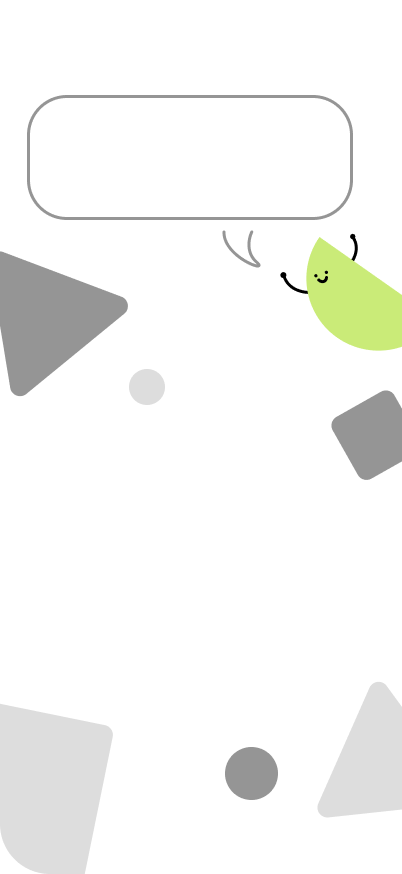
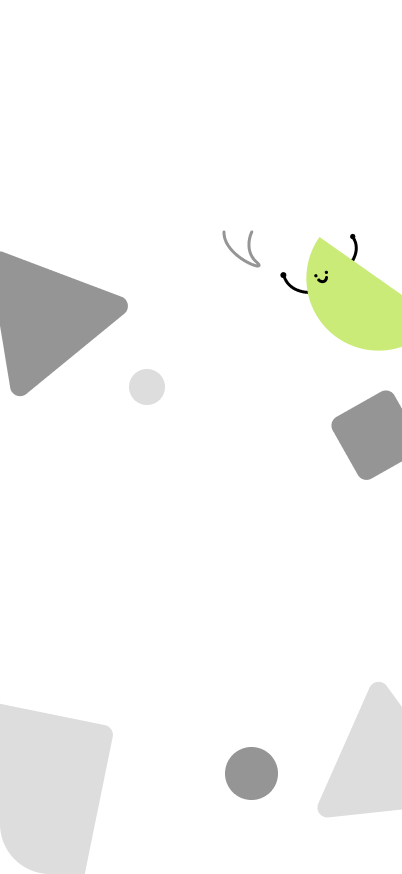
ライトモード強制、レスポンシブデザインに近づける

diff --git a/nebostop/start.swift b/nebostop/start.swift
@@ -13,37 +13,49 @@ struct start: View {
     @Binding var selectionDate : Date
     let totalSteps = 3
     var body: some View {
-        NavigationStack{
-            ZStack{
-                Image("start")
-                    .resizable()
-                    .scaledToFill()
-                    .ignoresSafeArea()
-                VStack(spacing:30){
+        GeometryReader { geometry in
+            NavigationStack{
+                ZStack{
+                    Image("start")
+                        .resizable()
+                        .scaledToFill()
+                        .ignoresSafeArea()
                     
-                    
-                    Text("明日は何時に起きるのか\n宣言しよう！")
-                        .font(.title2 .bold())
-                        .multilineTextAlignment(.center)
-                        .lineSpacing(20)
-                        .frame(maxWidth: 300, alignment: .center)
-                    
-                    Button{
-                        currentscreen = .whenyouwakeup
-                    } label: {
-                        Text("宣言する！")
-                            .font(.title2)
-                            .foregroundColor(.white)
-                            .padding(.vertical, 15)
-                            .padding(.horizontal, 30)
-                            .background(Color(red: 253/255, green: 149/255, blue: 96/255))
-                            .cornerRadius(30)
+                    VStack(spacing:30){
+                        VStack(spacing: 30){
+                            Text("明日は何時に起きるのか\n宣言しよう！")
+                                .font(.title2 .bold())
+                                .multilineTextAlignment(.center)
+                                .lineSpacing(8)
+                                .frame(maxWidth: geometry.size.width * 0.7, alignment: .center)
+                            Button{
+                                currentscreen = .whenyouwakeup
+                            } label: {
+                                Text("宣言する！")
+                                    .font(.title2)
+                                    .foregroundColor(.white)
+                                    .padding(.vertical, 15)
+                                    .padding(.horizontal, 30)
+                                    .background(Color(red: 253/255, green: 149/255, blue: 96/255))
+                                    .cornerRadius(30)
+                            }
+                        }
+                        .padding(.vertical, 40)
+                        .padding(.horizontal, 32)
+                        .frame(maxWidth: geometry.size.width * 0.8)
+                        .background(
+                            RoundedRectangle(cornerRadius: 30)
+                                .fill(Color.white)
+                                .overlay(
+                                    RoundedRectangle(cornerRadius: 30)
+                                        .stroke(Color(red: 149/255, green: 149/255, blue: 149/255), lineWidth: 3)
+                                )
+                        )
                     }
+                    .offset(y: -geometry.size.height * 0.2)                }
+                .overlay {
+                    ProgressBarOverlay(currentStep: currentStep, totalSteps: totalSteps)
                 }
-                .offset(y:-130)
-            }
-            .overlay {
-                ProgressBarOverlay(currentStep: currentStep, totalSteps: totalSteps)
             }
         }
     }

diff --git a/nebostop/missionreport.swift b/nebostop/missionreport.swift
@@ -25,6 +25,7 @@ struct missionreport: View {
     }
     
     var body: some View {
+        GeometryReader { geo in
         ZStack{
             Image("setmission2")
                 .resizable()
@@ -34,7 +35,7 @@ struct missionreport: View {
                 ZStack{
                     Rectangle()
                         .fill(Color.white)
-                        .frame(maxWidth: 300, maxHeight: 75)
+                        .frame(maxWidth: geo.size.width * 0.8, maxHeight: geo.size.height * 0.1)
                         .cornerRadius(30)
                         .overlay(
                         RoundedRectangle(cornerRadius: 30).stroke(Color(red: 149/255, green: 149/255, blue: 149/255), lineWidth: 3)
@@ -43,15 +44,13 @@ struct missionreport: View {
                         .font(.title2)
                         .multilineTextAlignment(.center)
                         .lineSpacing(5)
-                        .frame(maxWidth: 300, alignment: .center)
+                        .frame(maxWidth: geo.size.width * 0.7, alignment: .center)
                 }
-                .padding(.top, 110)
+                .padding(.top, geo.size.height * 0.17)
                 
-                
-                GeometryReader { geo in
                     let pickerWidth = geo.size.width * 0.8
-                    let pickerHeight = geo.size.height * 0.35
-                    let noteHeight = geo.size.height * 0.1
+                    let pickerHeight = geo.size.height * 0.3
+                    let noteHeight = geo.size.height * 0.08
                 
                     VStack(spacing: -3){
                         ZStack{

diff --git a/nebostop/missionconfirm.swift b/nebostop/missionconfirm.swift
@@ -41,7 +41,7 @@ struct missionconfirm: View {
                                 .background(Color(red: 253/255, green: 149/255, blue: 96/255))
                                 .cornerRadius(30)
                         }
-                        .padding(.bottom, 200)
+                        .padding(.bottom, geo.size.height * 0.25)
                     }
                 }
             }
